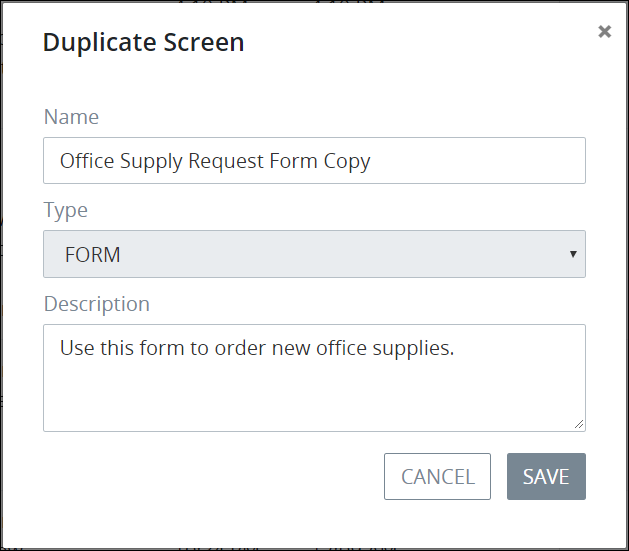
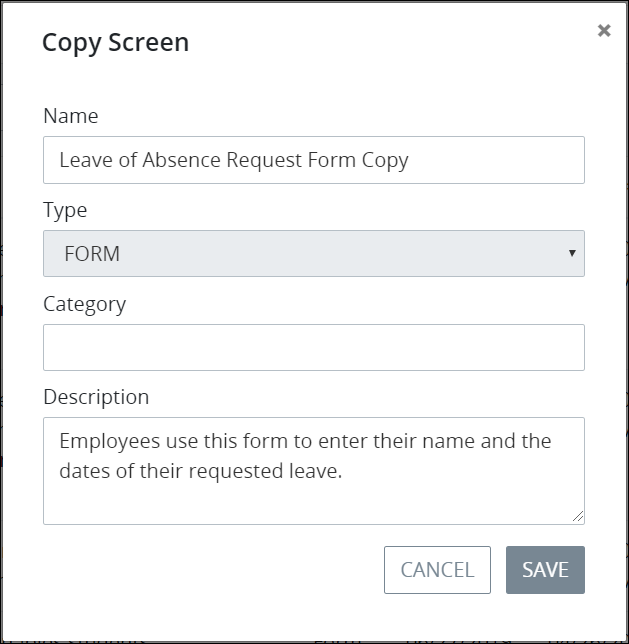
GitBook: [processmaker] 2 pages and 2 assets modified

diff --git a/designing-processes/scripts/manage-scripts/duplicate-a-script.md b/designing-processes/scripts/manage-scripts/duplicate-a-script.md
@@ -18,7 +18,7 @@ See the ProcessMaker [Scripts](../../../processmaker-administration/permission-d
 Follow these steps to copy a ProcessMaker Script:
 
 1. [View your ProcessMaker Scripts](view-all-scripts.md). The **Scripts** page displays.
-2. Click the **Copy** icon![](../../../.gitbook/assets/duplicate-script-processes.png)for your ProcessMaker Script. The **Duplicate Script** screen displays.  
+2. Click the **Copy** icon![](../../../.gitbook/assets/duplicate-script-processes.png)for your ProcessMaker Script. The **Copy Script** screen displays.  
 
    ![](../../../.gitbook/assets/duplicate-script-screen-processes.png)
 
@@ -26,10 +26,6 @@ Follow these steps to copy a ProcessMaker Script:
    * In the **Name** field, edit the name of the duplicated ProcessMaker Script. After the original ProcessMaker Script is duplicated, the word **Copy** is suffixed to the original Script's name. This is a required field.
    * In the **Description** field, edit the description of the original ProcessMaker Script.
 4. Click **Save**.
-
-{% hint style="info" %}
-The **Language** field shows in which programming language the original ProcessMaker Script is written. The copied ProcessMaker Script must use the same programming language.
-{% endhint %}
 
 ## Related Topics
 

diff --git a/designing-processes/design-forms/manage-forms/duplicate-a-screen.md b/designing-processes/design-forms/manage-forms/duplicate-a-screen.md
@@ -18,7 +18,7 @@ See the ProcessMaker [Screens](../../../processmaker-administration/permission-d
 Follow these steps to copy a ProcessMaker Screen:
 
 1. [View your ProcessMaker Screens.](view-all-forms.md) The **Screens** page displays.
-2. Click the **Copy** icon![](../../../.gitbook/assets/duplicate-script-processes.png)for your ProcessMaker Screen. The **Duplicate Screen** screen displays.  
+2. Click the **Copy** icon![](../../../.gitbook/assets/duplicate-script-processes.png)for your ProcessMaker Screen. The **Copy Screen** screen displays.  
 
    ![](../../../.gitbook/assets/duplicate-screen-screen-processes.png)
 
